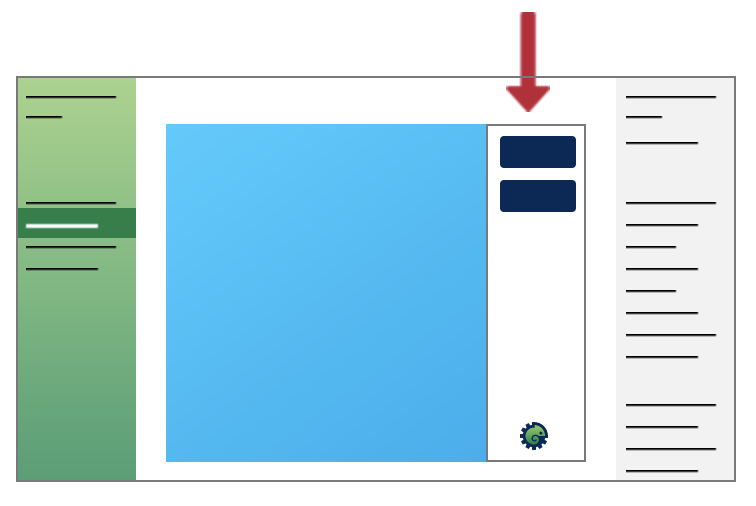
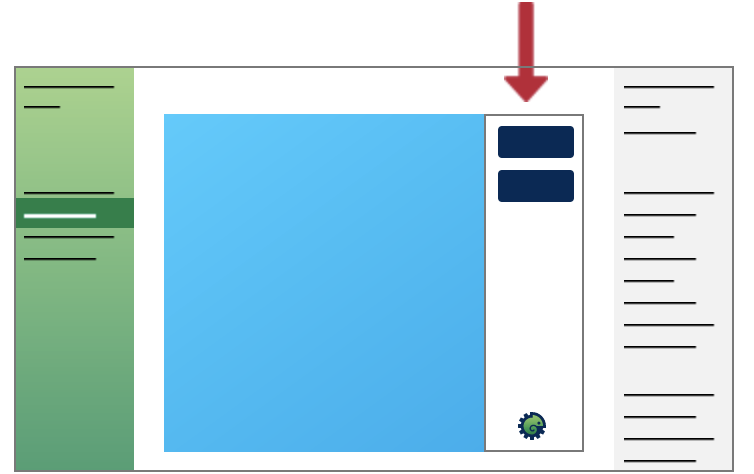
Turned "getting started" tutorial link into a video thumbnail

diff --git a/src/views/Dashboard.vue b/src/views/Dashboard.vue
@@ -41,10 +41,6 @@
           </div>
         </b-col>
         <b-col md="5" class="videos">
-          <div class="gettingStarted">
-            <b-link :href="externalLinks.gettingStarted"><b-icon icon="star"/>Getting Started with the Customization Tool</b-link>
-          </div>
-
           <div v-for="(video) in videos"
                :key="video.id"
                @click="playVideo(video)"
@@ -67,9 +63,8 @@
             <b-button :id="`PlayVideo-${video.id}`"
                       class="videoCaption"
                       variant="link"
-                      v-b-modal="`PlayerDialog-${video.id}`"
             >
-              {{ video.caption }} ({{video.length}})
+              {{ video.caption }} {{video.length && `(${video.length})`}}
             </b-button>
 
           </div>
@@ -121,6 +116,7 @@
       width: 50%;
       position: relative;
       cursor: pointer;
+      margin-bottom: 1em;
 
       .videoPreview {
         position: relative;
@@ -259,17 +255,25 @@ export default {
             sidePanel: null,
             hintTimer: null,
 
-            playingVideo: null,
-            videos: [{
-                id: "7bhdSFOiJjk",
-                caption: "Making a custom MorphicBar - Basics",
-                length: "4:24",
-                thumb: "/img/tutorial-thumb.png",
-                thumbRatio: "756:506"
-            }]
+            playingVideo: null
         };
     },
     computed: {
+        videos: function () {
+            return [
+                {
+                    url: this.externalLinks.gettingStarted,
+                    caption: "Tutorial: Getting Started",
+                    thumb: "/img/tutorial-thumb.png",
+                    thumbRatio: "756:474"
+                },
+                {
+                    id: "7bhdSFOiJjk",
+                    caption: "Making a custom MorphicBar - Basics",
+                    length: "4:24"
+                }
+            ];
+        }
     },
     mounted: function () {
         this.loadData();
@@ -423,8 +427,12 @@ export default {
             });
         },
         playVideo: function (video) {
-            this.playingVideo = video;
-            this.$bvModal.show("VideoDialog");
+            if (video.url) {
+                window.location = video.url;
+            } else {
+                this.playingVideo = video;
+                this.$bvModal.show("VideoDialog");
+            }
 
         }
     }
